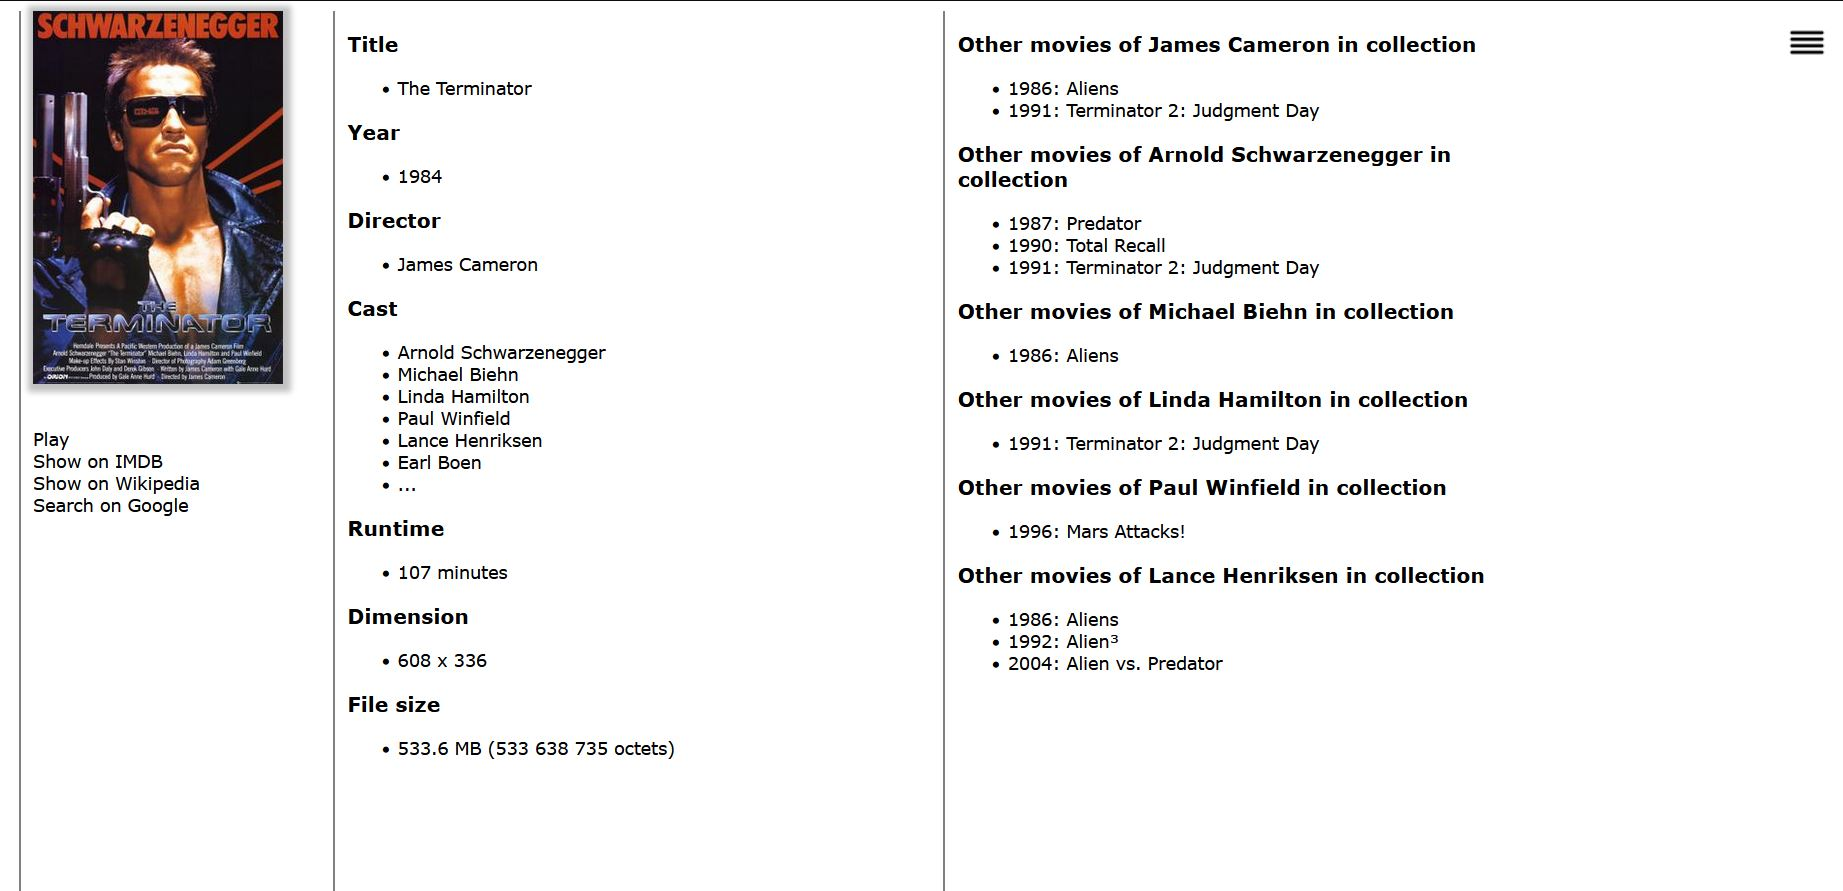
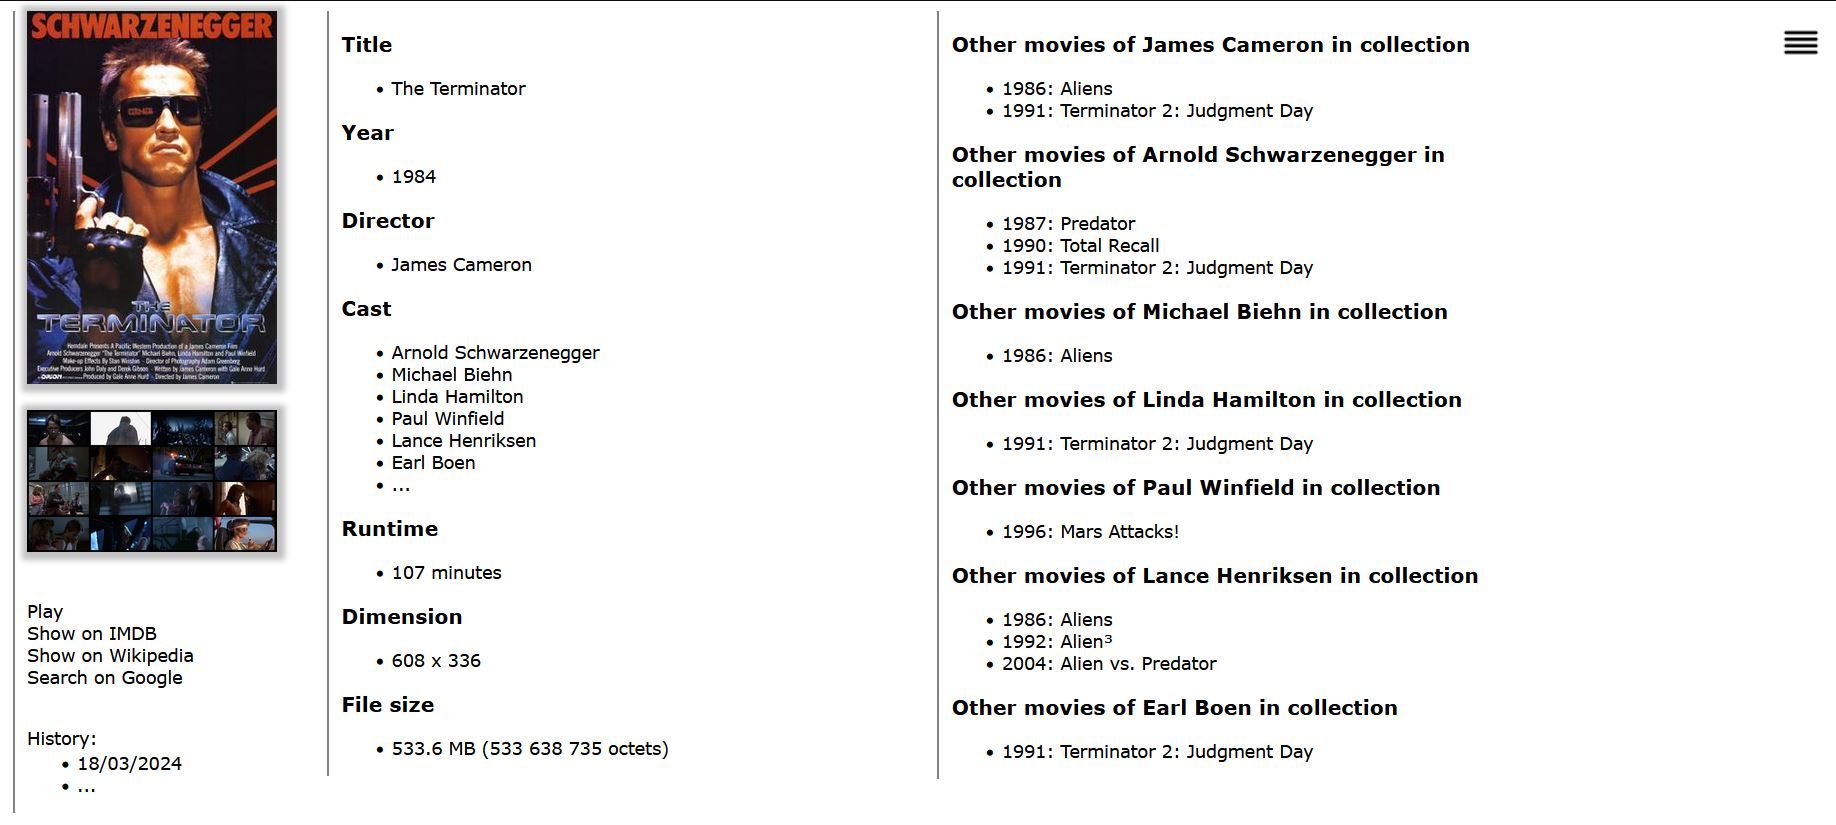
Update readme.

diff --git a/README.md b/README.md
@@ -9,12 +9,13 @@ A simple movie collection organizer. No need to repeat the information you find 
 Several views on your collection is available:
 
 * Bulk view, compact, in the order of the storage directory,
-* alphabetical order,
+* sorted by title,
 * sorted by year,
 * sorted by directors,
 * sorted by actors,
 * statistics (currently dimensions and file size),
-* movie description, with main movie data and links inside collection between movies sharing directors or actors, and links to IMDb and Wikipedia.
+* history,
+* movie descriptions.
 
 
 |![Bulk view](image1.jpg)|![Sort by year](image2.jpg)|
@@ -22,12 +23,23 @@ Several views on your collection is available:
 |Bulk view | Sort by year|
 |![Alphabetical sort](image3.jpg)|![Sort by director](image4.jpg)|
 |Alphabetical sort | Sort by director|
-|![Statistics](image5.jpg)|![Movie description](image6.jpg)|
-|Statistics | Movie description|
+|![Statistics](image5.jpg)|![History](image8.jpg)|
+|Statistics | History|
+
+The movie description contains:
+
+*  the main basic movie data, 
+*  the lists of movies sharing directors or actors inside the collection, with links from movie to movie,
+* the links to IMDb and Wikipedia for the movie,
+* the links to Wikipedia for the directors and actors,
+* the link to the storyboard (a mosaic of snapshots from the movie),
+* the dates of viewing the movie and the button to add a new date.
+
+![Movie description](image6.jpg)
 
 ## Install
 
-Clone the github repository in som directory and launch the following command from this directory:
+Clone the github repository in some directory and launch the following command from this directory:
 
 `pip install .`
 
@@ -105,7 +117,7 @@ Just use `movielib --update`.
 
 Just use `movielib --update`.
 
-Note for developpers: in some rare cases, it is necessary to delete all json files to force a new generation. This can be the case when the content of the json files evolves and mus be updated. In that case, a not documented option enables to remove all json files. This option does not remove the json files without IMDB id. Check however if these files must be manually completed with the related addition information. 
+Note for developpers: in some rare cases, it is necessary to delete all json files to force a new generation. This can be the case when the content of the json files evolves and must be updated. In that case, a not documented option enables to remove all json files. This option does not remove the json files without IMDB id. Check however if these files must be manually completed with the related additional information. 
 
 
 
